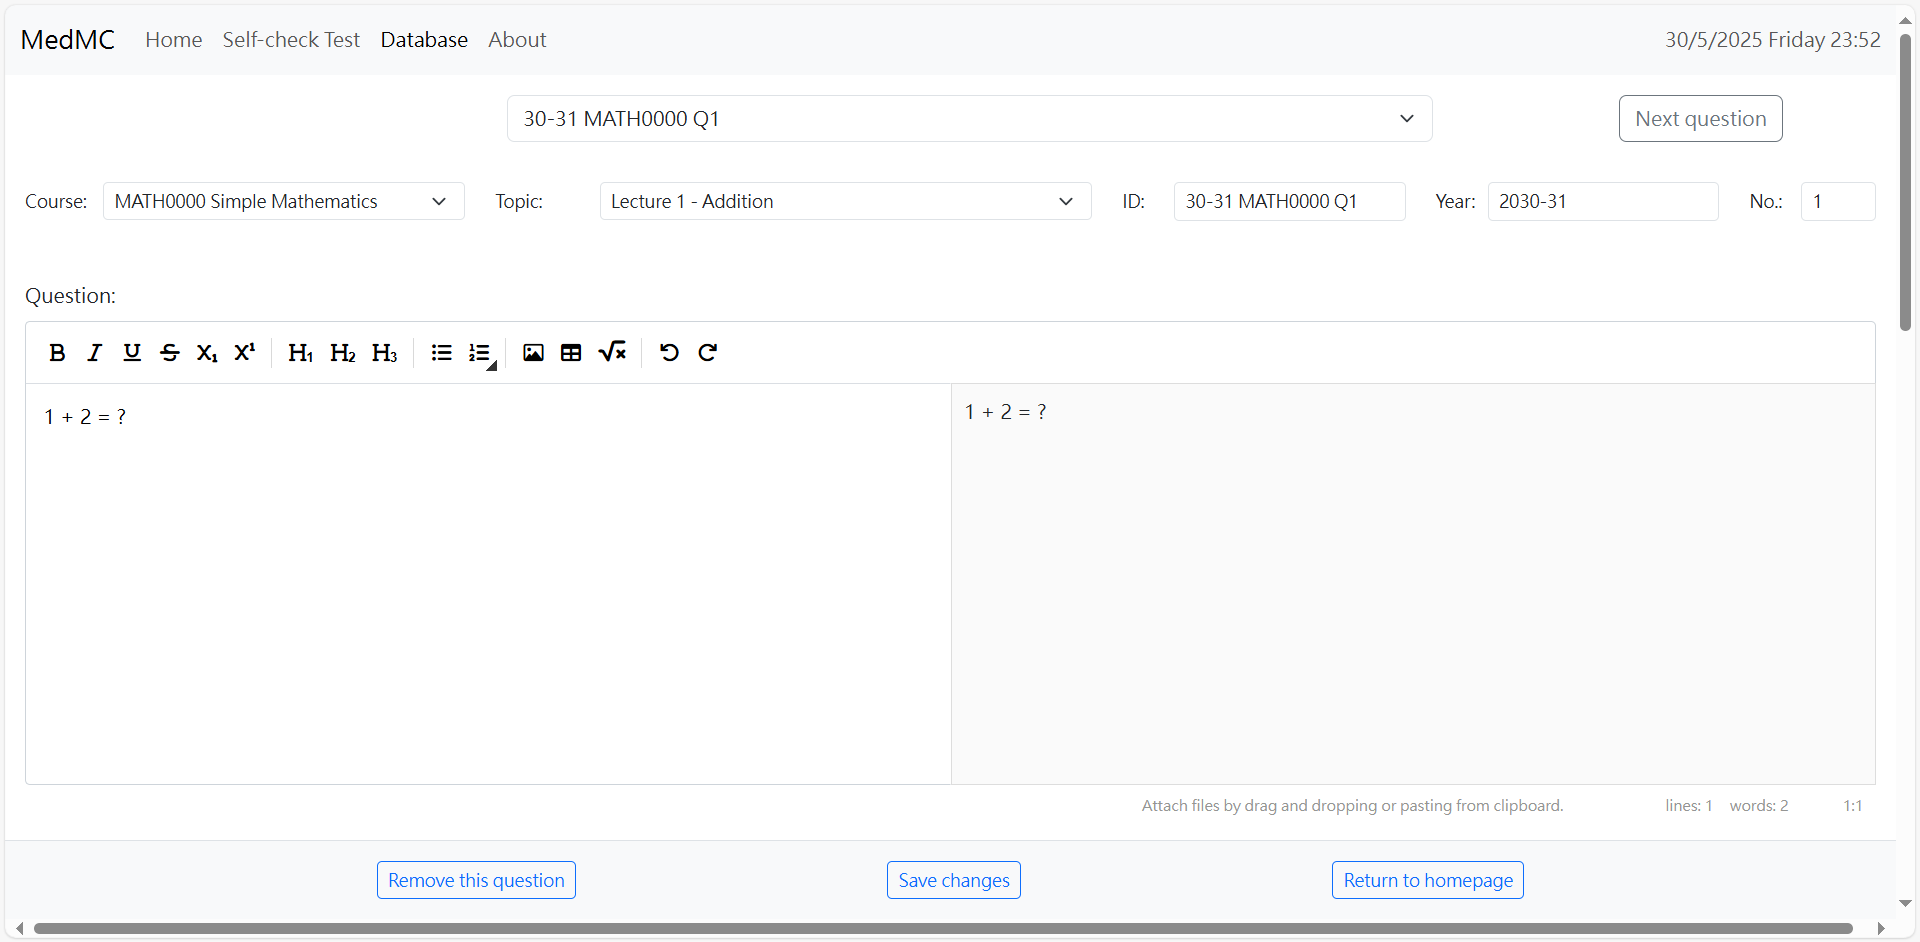
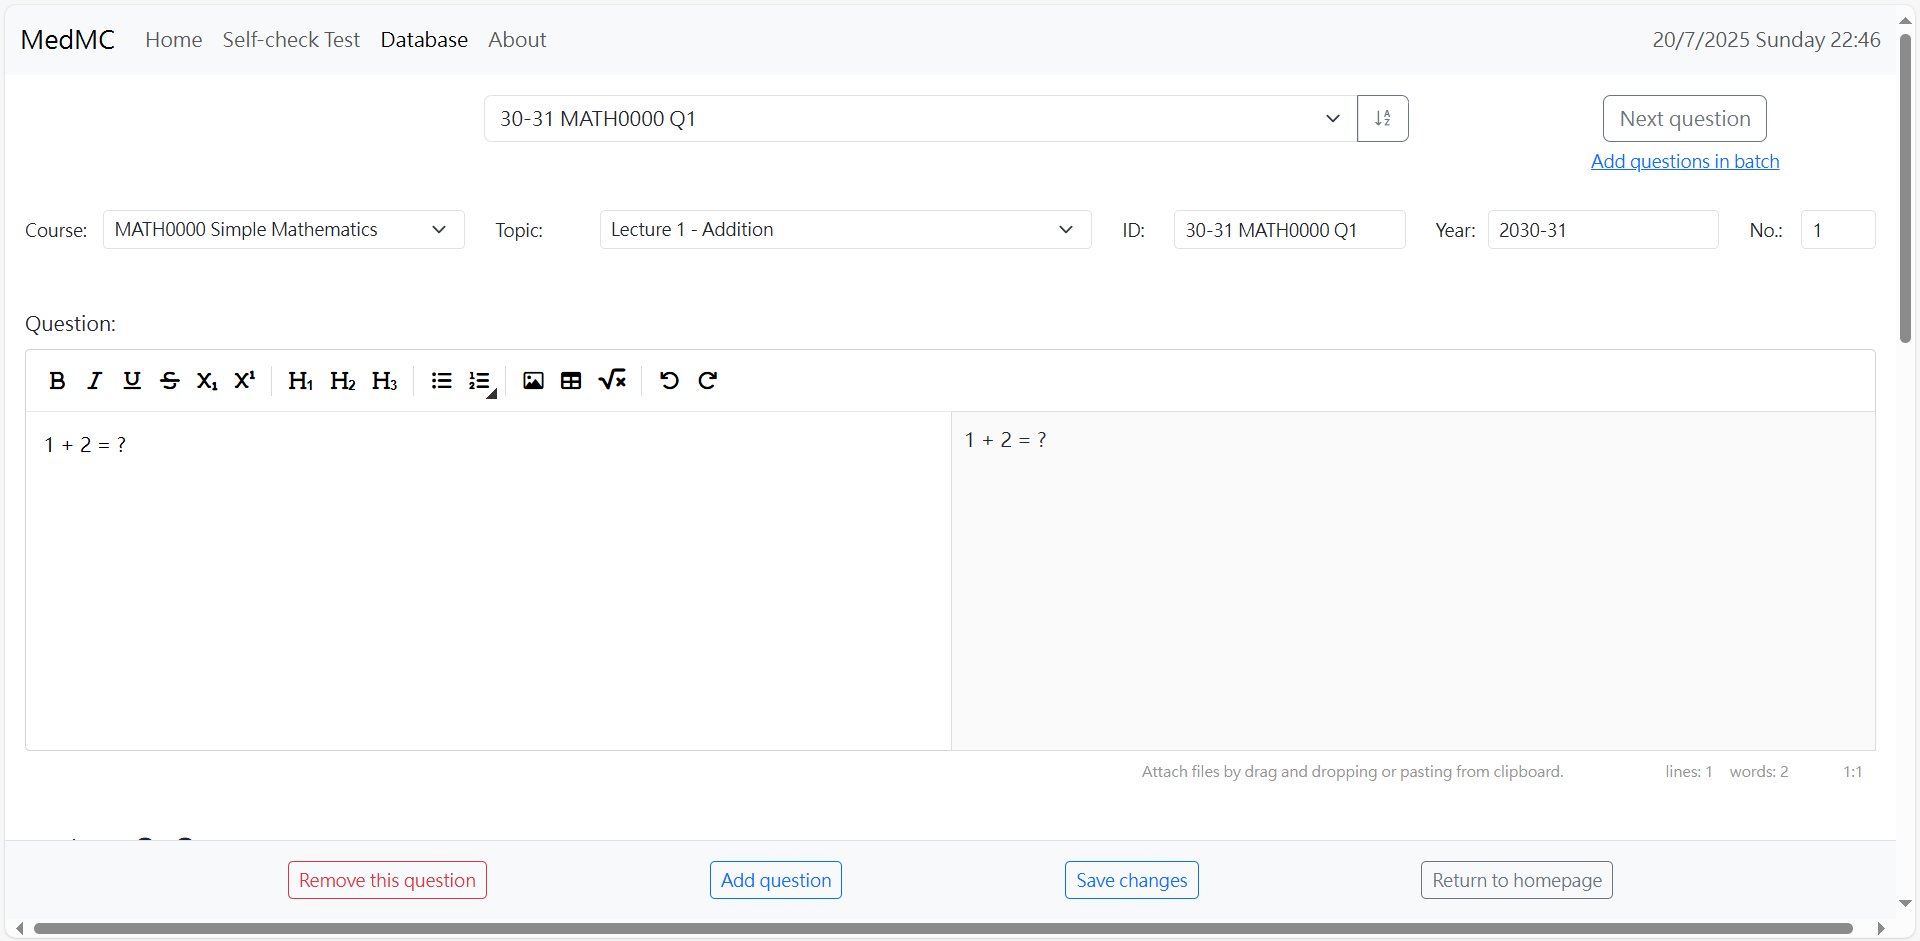
continue

diff --git a/get-started.html b/get-started.html
@@ -9,6 +9,13 @@
     <link rel="stylesheet" href="https://cdn.jsdelivr.net/npm/easymde/dist/easymde.min.css">
     <link rel="stylesheet" href="https://cdn.jsdelivr.net/npm/katex@0.16.22/dist/katex.min.css" crossorigin="anonymous">
     <link rel="stylesheet" href="mde-config.css">
+    <style>
+        .icon-square {
+            width: 3rem;
+            height: 3rem;
+            border-radius: .75rem;
+        }
+    </style>
 </head>
 <body>
     <nav class="navbar navbar-expand-md bg-body-tertiary">
@@ -99,6 +106,14 @@
                                     <a class="nav-link text-reset" href="#db-edit-save">Save changes for the question database</a>
                                 </li>
                             </ul>
+                            <li class="nav-item">
+                                <a class="nav-link text-reset" href="#db-add-batch">Add questions in batch</a>
+                            </li>
+                            <ul class="nav flex-column ms-4">
+                                <li class="nav-item">
+                                    <a class="nav-link text-reset" href="#db-add-batch-source">Select source</a>
+                                </li>
+                            </ul>
                         </ul>
                         <a class="nav-link text-reset" href="#contribute">Contribute</a>
                     </li>
@@ -115,7 +130,7 @@
                 To start a self-check test, you are provided with two options: <strong>using our predefined database</strong>
                 or <strong>your own database</strong>.
             </p>
-            <div class="my-3 p-2 border rounded">
+            <div class="my-3 px-3 py-2 border rounded">
                 <div class="px-4 py-5 mt-3 mb-3 text-center">
                     <img class="d-block mx-auto mb-4" src="icon/database-fill.svg" alt width="72" height="57">
                     <h1 class="display-5 fw-bold text-body-emphasis">Use predefined database</h1>
@@ -129,10 +144,10 @@
                     the content of the database
                     <a href="https://github.com/scms419/medmc/blob/main/questions.json" target="_blank">here</a>
                     (I am so sorry for making the database so complicated) or simply check the updates from the
-                    <a href="index.html#updates" target="_blank">homepage</a>.
+                    <a href="index.html#latestUpdates">homepage</a>.
                 </p>
             </div>
-            <div class="my-3 p-2 border rounded">
+            <div class="my-3 px-3 py-2 border rounded">
                 <div class="px-4 py-5 mt-3 mb-3 text-center">
                     <img class="d-block mx-auto mb-4" src="icon/file-earmark-zip-fill.svg" alt width="72" height="57">
                     <h1 class="display-5 fw-bold text-body-emphasis">Use your database</h1>
@@ -231,7 +246,7 @@
                 the box below for the options editor).
             </p>
             <p>
-                Check the full guide for the Markdown editor <a href="#" target="_blank">here</a> to discover the different
+                Check the full guide for the Markdown editor <a href="about-mde.html">here</a> to discover the different
                 functions of the editor and the Markdown syntax.
             </p>
             <p>
@@ -259,6 +274,73 @@ database.zip
             </div>
             <p>
                 After that, you can try your database in the “Self-check test” function by uploading it.
+            </p>
+            <h3 class="fs-4 mt-3" id="db-add-batch">Add questions in batch</h3>
+            <p class="mb-0">
+                To speed up the process of question input, we also provide the adding in batch function.
+            </p>
+            <div class="modal position-static d-block" id="addQuestionsModal" tabindex="-1" aria-labelledby="addQuestionsModalLabel">
+                <div class="modal-dialog modal-lg">
+                    <div class="modal-content">
+                        <div class="modal-header">
+                            <h3 class="modal-title">Add questions in batch</h3>
+                            <button type="button" class="btn-close" data-bs-dismiss="modal" aria-label="Close"></button>
+                        </div>
+                        <div class="modal-body">
+                            <div class="container-fluid p-3">
+                                <div class="py-3">
+                                    <h4>Select source</h4>
+                                    <div class="row g-4 py-2 row-cols-1">
+                                        <div class="col d-flex align-items-start">
+                                            <div class="icon-square text-body-emphasis bg-body-secondary d-inline-flex align-items-center justify-content-center fs-4 flex-shrink-0 me-3">
+                                                <i class="bi bi-filetype-docx" aria-hidden="true"></i>
+                                            </div>
+                                            <div>
+                                                <h5 class="text-body-emphasis">Import from Word document</h5>
+                                                <input class="form-control form-control-sm" type="file" aria-describedby="addQuestionsDocxText" disabled>
+                                                <span class="form-text">
+                                                    Upload .doc / .docx file.
+                                                </span>
+                                            </div>
+                                        </div>
+                                        <div class="col d-flex align-items-start">
+                                            <div class="icon-square text-body-emphasis bg-body-secondary d-inline-flex align-items-center justify-content-center fs-4 flex-shrink-0 me-3">
+                                                <i class="bi bi-filetype-xlsx" aria-hidden="true"></i>
+                                            </div>
+                                            <div>
+                                                <h5 class="text-body-emphasis">Import from Excel workbook</h5>
+                                                <input class="form-control form-control-sm" type="file" aria-describedby="addQuestionsXlsxText" disabled>
+                                                <div class="form-text">
+                                                    Upload .xls / .xlsx file. Use the following as column headers or click <a href="template.xltx" target="_blank">here</a> to download the template: <br>
+                                                    "id", "level", "course", "topic", "year", "question_number", "question", "options", "answer", "explanation"
+                                                </div>
+                                            </div>
+                                        </div>
+                                        <div class="col d-flex align-items-start">
+                                            <div class="icon-square text-body-emphasis bg-body-secondary d-inline-flex align-items-center justify-content-center fs-4 flex-shrink-0 me-3">
+                                                <i class="bi bi-database-add" aria-hidden="true"></i>
+                                            </div>
+                                            <div>
+                                                <h5 class="text-body-emphasis">Merge with other database</h5>
+                                                <input class="form-control form-control-sm" type="file" aria-describedby="addQuestionsDbText" disabled>
+                                                <span class="form-text">
+                                                    Upload .zip file.
+                                                </span>
+                                            </div>
+                                        </div>
+                                    </div>
+                                </div>
+                            </div>
+                        </div>
+                        <div class="modal-footer">
+                            <input type="button" class="btn btn-danger" value="Cancel" data-bs-dismiss="modal" disabled>
+                        </div>
+                    </div>
+                </div>
+            </div>
+            <h4 class="fs-5 mt-2" id="db-add-batch-source">Select source</h4>
+            <p>
+                To be continued...
             </p>
             <h2 class="mt-5" id="contribute">Contribute</h2>
             <p>

diff --git a/js/database.js b/js/database.js
@@ -743,7 +743,7 @@ function sliceMarkdown(data) {
     const extractRegex = /(\d+|[A-Z])/;
     const nextLineRegex = /.*\n/;
     let result = [];
-    let num = 0;
+    let num = -1;
     let id, answer;
     let question = "";
     let explanation = "";
@@ -753,8 +753,9 @@ function sliceMarkdown(data) {
     while (data) {
         const startMatch = startRegex.exec(data);
         if (startMatch) {
-            if (parseInt(extractRegex.exec(startMatch[1])[0]) === num+1) {
-                num++;
+            if (num === -1 || parseInt(extractRegex.exec(startMatch[1])[0]) === num+1) {
+                if (num === -1) num = parseInt(extractRegex.exec(startMatch[1])[0]);
+                else num++;
                 if (flag) {
                     Object.keys(options).forEach((key) => {options[key] = options[key].trim();});
                     result.push(

diff --git a/database.html b/database.html
@@ -52,7 +52,7 @@
             </div>
         </div>
     </nav>
-    <div id="bar" class="d-flex p-3 justify-content-around align-items-baseline">
+    <div id="bar" class="d-flex px-3 pt-3 pb-2 justify-content-around align-items-baseline sticky-top bg-body">
         <button type="button" id="prevButton" class="btn btn-outline-secondary">Previous Question</button>
         <div class="input-group w-50">
             <select id="selectQuestion" class="form-select" aria-label="Select question"></select>

diff --git a/js/mde-config.js b/js/mde-config.js
@@ -2,7 +2,7 @@ function createMDE(id, placeholder, sideBySide, horizontal=true, status=true) {
     const option = {
         element: document.getElementById(id),
         sideBySideFullscreen: false,
-        minHeight: (sideBySide && !horizontal) ? "31.4px" : "300px",
+        minHeight: (sideBySide && !horizontal) ? "31.4px" : "250px",
         previewRender: (plainText) => marked.parse(plainText),
         uploadImage: true,
         placeholder: placeholder,

diff --git a/index.html b/index.html
@@ -88,7 +88,7 @@
             </div>
         </div>
     </div>
-    <div class="container px-4 py-5">
+    <div class="container px-4 py-5" id="latestUpdates">
         <h2 class="pb-2 border-bottom">Lastest update</h2>
         <div id="updates"></div>
         <nav aria-label="Update navigation">
